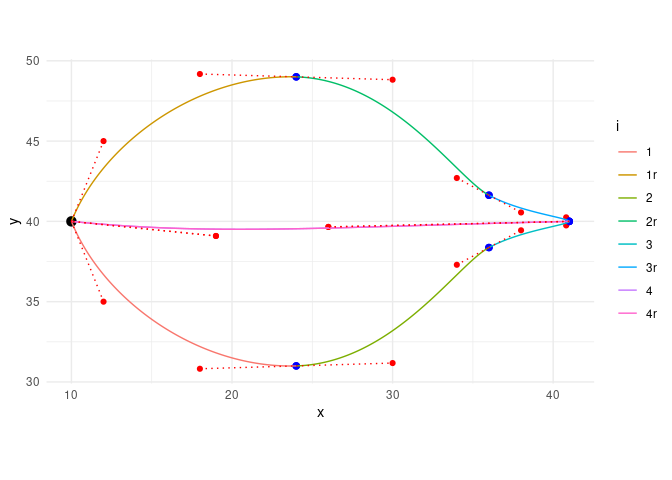
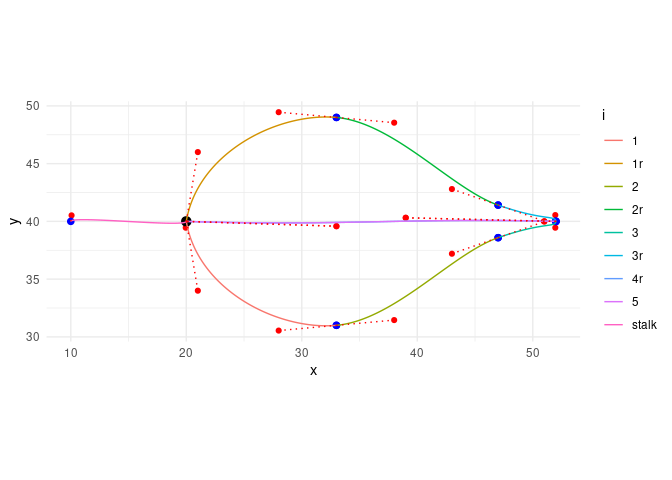
also include stalks in leaves

diff --git a/tests/testthat/_snaps/generate_data.md b/tests/testthat/_snaps/generate_data.md
@@ -3,38 +3,38 @@
     Code
       benjamini_leaf()
     Output
-      # A tibble: 32 x 3
+      # A tibble: 36 x 3
          i         x     y
          <chr> <dbl> <dbl>
-       1 1        10  40  
-       2 1        12  35  
-       3 1        18  30.8
-       4 1        24  31  
-       5 2        24  31  
-       6 2        30  31.2
-       7 2        34  37.3
-       8 2        36  38.4
-       9 3        36  38.4
-      10 3        38  39.4
-      # ... with 22 more rows
+       1 1        20  40  
+       2 1        21  34  
+       3 1        28  30.5
+       4 1        33  31  
+       5 2        33  31  
+       6 2        38  31.5
+       7 2        43  37.2
+       8 2        47  38.6
+       9 3        47  38.6
+      10 3        51  40.0
+      # ... with 26 more rows
 
 # generated bezier branch dataframe still the same
 
     Code
       benjamini_branch()
     Output
-      # A tibble: 400 x 8
-             x     y    x1    y1    x2    y2 type       i    
-         <dbl> <dbl> <dbl> <dbl> <dbl> <dbl> <chr>      <chr>
-       1    70   280  NA     NA   NA     NA  <NA>       <NA> 
-       2    84   245  NA     NA   NA     NA  <NA>       <NA> 
-       3   126   217  NA     NA   NA     NA  <NA>       <NA> 
-       4   168   217  NA     NA   NA     NA  <NA>       <NA> 
-       5    NA    NA  75.7  269.  71.9  254. leaf_stalk <NA> 
-       6    NA    NA  82.4  259.  97.3  257. leaf_stalk <NA> 
-       7    NA    NA  90.5  250.  90.5  235. leaf_stalk <NA> 
-       8    NA    NA  98.8  242. 114.   244. leaf_stalk <NA> 
-       9    NA    NA 107.   236. 110.   222. leaf_stalk <NA> 
-      10    NA    NA 117.   231. 131.   235. leaf_stalk <NA> 
-      # ... with 390 more rows
+      # A tibble: 436 x 4
+             x     y i     type       
+         <dbl> <dbl> <chr> <chr>      
+       1  70    280  <NA>  <NA>       
+       2  84    245  <NA>  <NA>       
+       3 126    217  <NA>  <NA>       
+       4 168    217  <NA>  <NA>       
+       5  84.1  265. 1_1   leaf_bezier
+       6  85.8  260. 1_1   leaf_bezier
+       7  95.5  253. 1_1   leaf_bezier
+       8 101.   252. 1_1   leaf_bezier
+       9 101.   252. 2_1   leaf_bezier
+      10 107.   250. 2_1   leaf_bezier
+      # ... with 426 more rows
 

diff --git a/README.md b/README.md
@@ -53,20 +53,20 @@ results in a dataframe where i denotes the id of the bezier curve, and x
 ``` r
 df <- benjamini_leaf()
 df
-#> # A tibble: 32 × 3
+#> # A tibble: 36 × 3
 #>    i         x     y
 #>    <chr> <dbl> <dbl>
-#>  1 1        10  40  
-#>  2 1        12  35  
-#>  3 1        18  30.8
-#>  4 1        24  31  
-#>  5 2        24  31  
-#>  6 2        30  31.2
-#>  7 2        34  37.3
-#>  8 2        36  38.4
-#>  9 3        36  38.4
-#> 10 3        38  39.4
-#> # … with 22 more rows
+#>  1 1        20  40  
+#>  2 1        21  34  
+#>  3 1        28  30.5
+#>  4 1        33  31  
+#>  5 2        33  31  
+#>  6 2        38  31.5
+#>  7 2        43  37.2
+#>  8 2        47  38.6
+#>  9 3        47  38.6
+#> 10 3        51  40.0
+#> # … with 26 more rows
 ```
 
 The meaning is best illustrated with a plot:
